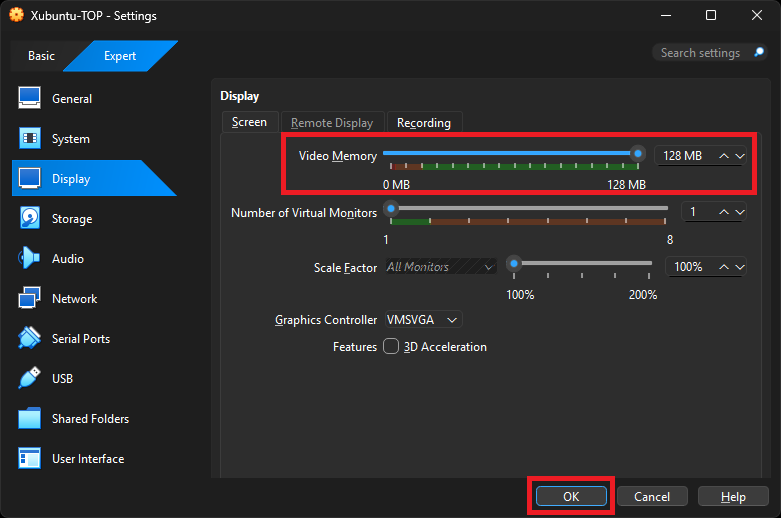
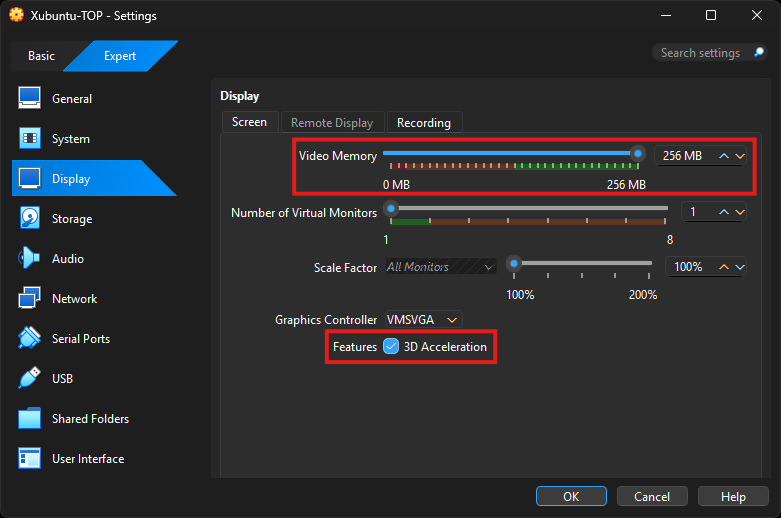
further increase video memory by enabling 3D acceleration

Changed region(s): [[0.338, 0.2471, 0.9834, 0.3707], [0.3995, 0.6178, 0.6453, 0.7104], [0.6761, 0.8958, 0.799, 1.0]]

diff --git a/foundations/installations/installation_guides/linux/virtual_machine.md b/foundations/installations/installation_guides/linux/virtual_machine.md
@@ -107,7 +107,7 @@ The Settings page for your Virtual Machine will open and look like the image bel
 
 ![Settings screen](../../installations/imgs/08_settings_screen.png)
 
-Please click on the **Display** button. You will then be on the Display settings screen. What you must do here is increase the **Video Memory** to maximum. You can also increase the number of Virtual Monitors if you have multiple physical monitors. We recommend to do this later once you are comfortable in your VM.
+Please click on the **Display** button. You will then be on the Display settings screen. What you must do here is first enable **3D Acceleration** and then increase the **Video Memory** to maximum. You can also increase the number of Virtual Monitors if you have multiple physical monitors. We recommend to do this later once you are comfortable in your VM.
 
 ![Display settings screen](../../installations/imgs/09_display_settings_screen.png)
 
